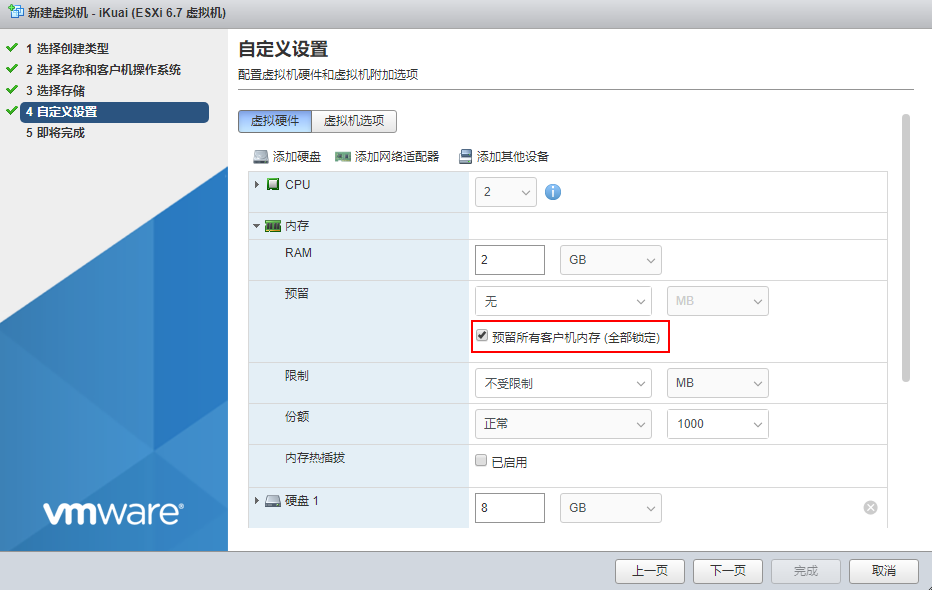
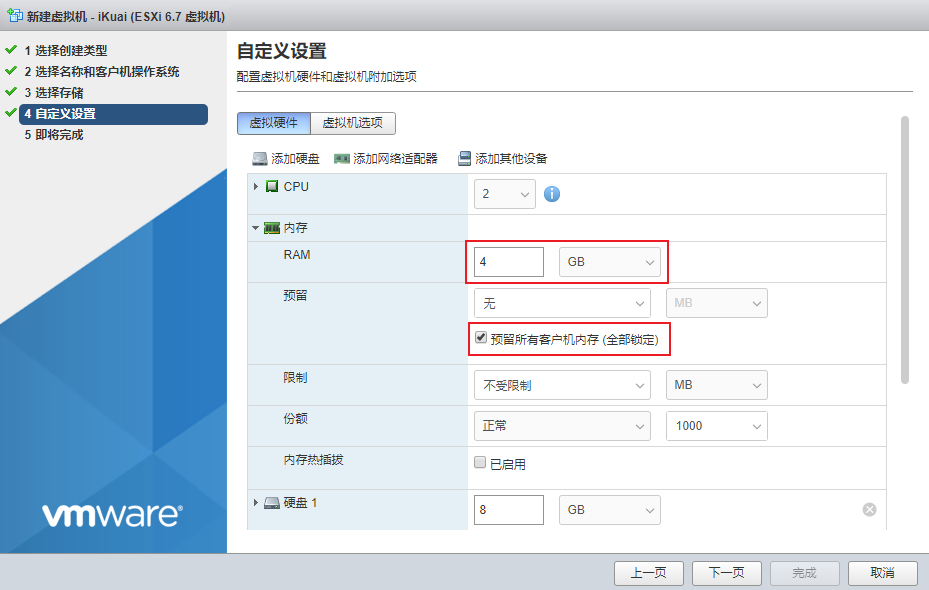
finish soft route

diff --git a/src/softRoute/softroute.md b/src/softRoute/softroute.md
@@ -16,15 +16,15 @@
       - [网卡直通情况](#%E7%BD%91%E5%8D%A1%E7%9B%B4%E9%80%9A%E6%83%85%E5%86%B5)
   - [iKuai](#ikuai)
     - [安装iKuai](#%E5%AE%89%E8%A3%85ikuai)
-    - [设置iKuai](#%E8%AE%BE%E7%BD%AEikuai)
       - [网卡非直通情况](#%E7%BD%91%E5%8D%A1%E9%9D%9E%E7%9B%B4%E9%80%9A%E6%83%85%E5%86%B5-1)
       - [网卡直通情况](#%E7%BD%91%E5%8D%A1%E7%9B%B4%E9%80%9A%E6%83%85%E5%86%B5-1)
+    - [设置iKuai](#%E8%AE%BE%E7%BD%AEikuai)
     - [iKuai的web端设置](#ikuai%E7%9A%84web%E7%AB%AF%E8%AE%BE%E7%BD%AE)
   - [LEDE](#lede)
     - [安装LEDE](#%E5%AE%89%E8%A3%85lede)
-    - [设置LEDE](#%E8%AE%BE%E7%BD%AElede)
       - [网卡非直通情况](#%E7%BD%91%E5%8D%A1%E9%9D%9E%E7%9B%B4%E9%80%9A%E6%83%85%E5%86%B5-2)
       - [网卡直通情况](#%E7%BD%91%E5%8D%A1%E7%9B%B4%E9%80%9A%E6%83%85%E5%86%B5-2)
+    - [设置LEDE](#%E8%AE%BE%E7%BD%AElede)
     - [LEDE的web端设置](#lede%E7%9A%84web%E7%AB%AF%E8%AE%BE%E7%BD%AE)
 
 
@@ -100,10 +100,10 @@
 
 ### ESXi的web端设置
 #### 设置笔记本网卡IP
-将笔记本的网口用网线连接到软路由的LAN6口，并将笔记本有线网卡的IPv4设置为:    
-- IPv4: **10.10.10.111**
-- 子网掩码: **255.255.255.0**
-- 默认网关/路由器: **10.10.10.10**  
+将笔记本的网口用网线连接到软路由的**LAN1**口，并将笔记本有线网卡的IPv4设置为:    
+- **IPv4**: **10.10.10.111**
+- **子网掩码**: **255.255.255.0**
+- **默认网关/路由器**: **10.10.10.10**  
 ![笔记本IP设置](ESXi-PC-IP.png)    
 
 浏览器打开**10.10.10.100**，然后输入设置的密码进入ESXi后台(用户名为root，密码为安装ESXi时候设置的密码):   
@@ -114,49 +114,113 @@
 ![ESXi activate](ESXi-activate.png)    
 
 #### 打开虚拟机交换机的混杂模式
-网络=>虚拟交换机=>vSwitcho=>编辑设置=>安全=>混杂模式=>接受       
+网络 -> 虚拟交换机 -> vSwitcho -> 编辑设置 -> 安全 -> 混杂模式 -> 接受       
 ![打开虚拟机的混杂模式](ESXi-NetCard-Setting.png)    
 
 #### 网卡非直通情况
-- 网络->虚拟交换机->添加交换机(多少个网口添加多少个)->安全->全部接受
-- 网络->端口组->添加端口组(多少个网口添加多少个)->安全->全部接受
-- 存储->数据存储浏览器->创建文件夹->LEDE->将转换好的LEDE的ESXi虚拟机镜像上传到该文件夹下->虚拟机->新建虚拟机->客户机操作系统linux->客户机操作系统版本->其他64位->添加硬盘->添加现有硬盘->选择刚刚上传的LEDE虚拟机文件,**删除原来的硬盘**->添加网络适配器(多少个网口添加多少个)->保存->重新编辑配置(若内存栏出现错误，刷新一下浏览器重新编辑)->设置网卡对应的端口
-- 存储->数据存储浏览器->创建文件夹->iKuai->将iKuai的ISO镜像上传到该文件夹下->虚拟机->新建虚拟机->客户机操作系统linux->客户机操作系统版本->其他64位->CD/DVD选择刚刚上传的iKuai的ISO文件->添加网络适配器(多少个网口添加多少个)->保存->重新编辑配置(若内存栏出现错误，刷新一下浏览器重新编辑)->设置网卡对应的端口
+- 网络 -> 虚拟交换机 -> 添加交换机(多少个网口添加多少个) -> 安全 -> 全部接受
+- 网络 -> 端口组 -> 添加端口组(多少个网口添加多少个) -> 安全 -> 全部接受
 
 #### 网卡直通情况    
-主机 => 硬件 => PCI设备 => 下拉选择`支持直通`来筛选网卡 = > 选中后5个(共6个)端口。    
-这里要注意不要将第一个(第一个好记)端口这是为直通，否则导致进不去ESXi后台。    
+主机 -> 硬件 -> PCI设备 -> 下拉选择`支持直通`来筛选网卡 -> 选中后5个(共6个)端口。    
+**这里要注意不要将第一个(第一个好记)端口/LAN1设置为直通，否则导致进不去ESXi后台。**    
+
 ![网卡直通激活前](ESXi-networkcard.png)     
 ![网卡直通激活后](ESXi-networkcard1.png)     
+
 设置好以后要单机**重新引导主机**，否则可能导致进不去ESXi的后台。    
   
-
 ## iKuai
 ### 安装iKuai
-下载iKuai的ISO文件    
-设置LAN1的IP地址:10.10.10.1    
-![iKuai 设置IP](iKuai-finished.png)    
-### 设置iKuai
+下载iKuai的ISO文件，然后**创建iKuai虚拟机的流程为**:   
+存储->数据存储浏览器->创建文件夹->iKuai->将iKuai的ISO镜像上传到该文件夹下->虚拟机->新建虚拟机->客户机操作系统linux->客户机操作系统版本->其他64位->CD/DVD选择刚刚上传的iKuai的ISO文件->内存要勾选**预留所有客户机内存(全部锁定)**     
+![安装iKuai step1](iKuai-install1.png)     
+![安装iKuai step2](iKuai-install2.png)     
+![安装iKuai step3](iKuai-install3.png)     
+![安装iKuai step4](iKuai-install4.png)     
+![安装iKuai step5](iKuai-install5.png)     
+![安装iKuai step6](iKuai-install6.png)     
+![安装iKuai step7](iKuai-install7.png)     
+
+**这里要特别注意iKuai虚拟机的内存>=4G** ，否则会出现以下错误:    
+
+![iKuai install error](iKuai-install-error.png)    
 
 #### 网卡非直通情况
+重新编辑iKuai虚拟机设 -> 添加网络适配器并选择第6块虚拟网卡**VM Network5** ，配置好的界面如下:   
+![网卡非直通](iKuai-feizhitong.png)   
 
 #### 网卡直通情况
+重新编辑iKuai虚拟机设 -> 添加PCI设备并选择对应的第6块网卡，配置好的界面如下:   
+![网卡直通](iKuai-zhitong.png)   
+
+### 设置iKuai
+启动iKuai虚拟机会自动安装iKuai，安装完以后按下回车键，显示:    
+![iKuai finished](iKuai-lan.png)    
+输入数字2，然后设置LAN1的IP地址:10.10.10.10:    
+![iKuai finished](iKuai-lan1.png)    
+![iKuai finished](iKuai-lan2.png)    
+![iKuai 设置IP](iKuai-finished.png)    
+
 
 ### iKuai的web端设置
+电脑浏览器打开**10.10.10.10**，默认用户名`admin`，默认密码`admin`，进入iKuai的web客户端绑定WAN口:   
+网络设置 -> 内外网设置 -> 在接口状态会有一个空闲的wan1口 -> 外网网口单击一下绑定上述空闲的wan1口即可:    
+![iKuai WEB1](iKuai-web1.png)    
+开启一条DHCP服务: 网络设置 -> DHCP服务端 -> 添加DCHP服务:   
+- 客户端地址: 10.10.10.101 - 10.10.10.254
+- 子网掩码: 255.255.255.0
+- 网关: 10.10.10.1   这里的网关是LEDE后台的地址
+- 首选DNS: 114.114.114.114
+- 备选DNS: 223.5.5.5   
+![iKuai DHCP](iKuai-web2.png)    
 
+**然后重启DHCP服务**    
 
 ## LEDE
 ### 安装LEDE
-到KoolShare官网下载LEDE的固件，虚拟机转盘或PE下写盘专用=>要选择combined格式，因为uefi格式下LEDE编辑的时候硬盘显示错误:    
+到KoolShare官网下载LEDE的固件，虚拟机转盘或PE下写盘专用->要选择combined格式，因为uefi格式下LEDE编辑的时候硬盘显示错误:    
 ![LEDE Download](lede1.png)    
 下载完成后解压到本地，然后用**StarWind Converte**将LEDE的.img格式转换为ESXi虚拟机文件。    
 
-设置IP地址为:10.10.10.1
+**创建LEDE虚拟机的流程为**:   
+存储->数据存储浏览器->创建文件夹->LEDE->将上述转化后的两个文件上传到该目录下->虚拟机->新建虚拟机->客户机操作系统linux->客户机操作系统版本->其他64位->删除默认硬盘->添加现有硬盘->选择LEDE文件夹下上传的文件->内存要勾选**预留所有客户机内存(全部锁定)**:    
+![LEDE step1](LEDE-install1.png)    
+![LEDE step2](LEDE-install2.png)    
+![LEDE step3](LEDE-install3.png)    
+![LEDE step4](LEDE-install4.png)    
+![LEDE step5](LEDE-install5.png)    
 
-### 设置LEDE
 #### 网卡非直通情况
+重新编辑配置LEDE虚拟机->设置添加除了最后一块虚拟网卡外的其余虚拟网卡，配置好的界面如下:    
+![网卡非直通](LEDE-feizhitong.png)    
 
 #### 网卡直通情况
+重新编辑配置LEDE虚拟机->设置添加除了最后一块PCI设备以外的其余PCI设备，并对应其编号(最后一块给iKuai用了，假如错误的将所有PCI设备都加上了同时启动iKuai和LDDE的时候会提示设备错误)，配置好的界面如下:    
+![网卡直通](LEDE-zhitong.png)   
+
+
+### 设置LEDE
+启动iKuai虚拟机会自动安装iKuai，安装好以后按下回车:   
+![LEDE step6](LEDE-install6.png)    
+设置IP地址为:**10.10.10.1** ，在虚拟机终端输入以下命令:    
+```shell
+vim /etc/config/network
+```
+![LEDE step7](LEDE-install7.png)    
+
+然后将**option ipaddr 192.168.1.1**改为**option ipaddr 10.10.10.1** :    
+![LEDE step8](LEDE-install8.png)    
+
+然后重启LEDE虚拟机。    
 
 
 ### LEDE的web端设置
+电脑浏览器打开**10.10.10.10**，默认密码`koolshare`，进入iKuai的web客户端:   
+网络 -> 接口 -> 关闭WAN -> 关闭WAN6 -> 编辑LAN:    
+![LEDE WEB1](LEDE-web1.png)    
+
+LAN -> 物理接口 -> 接口 -> **选中erspan0**以及**选中eth0-echo3**:   
+![LEDE WEB2](LEDE-web2.png)    
+
+所要外接路由器作为AP，则需要将DHCP服务器->高级设置->强制勾选上。  
